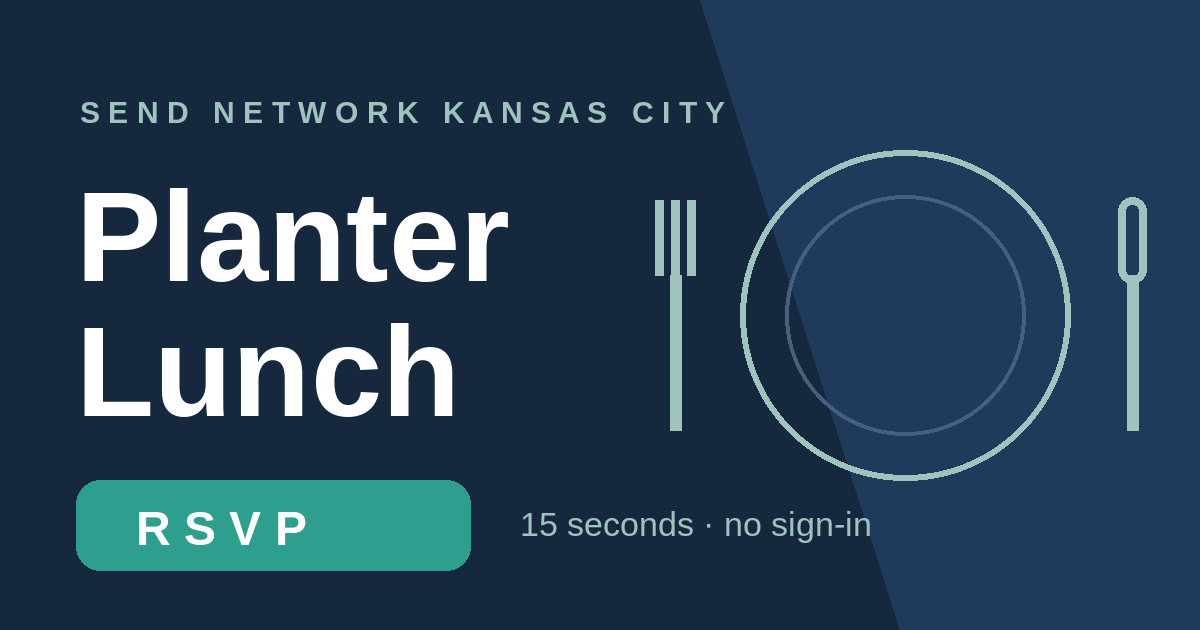
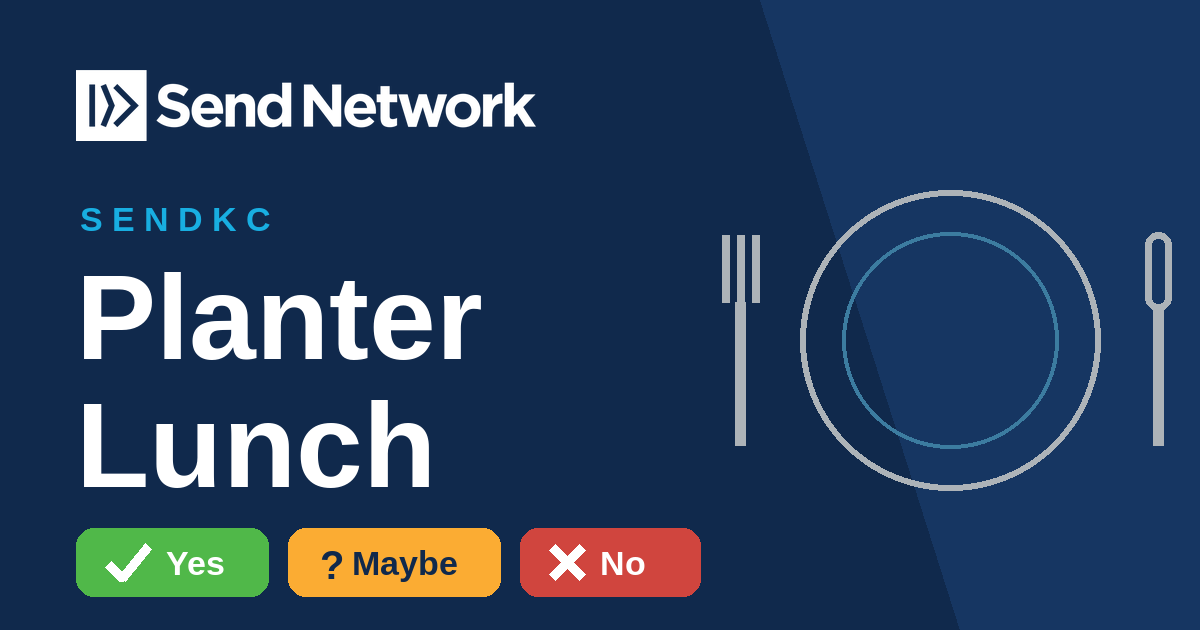
Rebrand lunch-rsvp with Send Network identity; Yes/Maybe/No buttons

Changed region(s): [[0.0617, 0.3016, 0.74, 0.9651], [0.5242, 0.2413, 0.9867, 0.7841], [0.0617, 0.0905, 0.6167, 0.2413]]

diff --git a/lunch-rsvp/index.html b/lunch-rsvp/index.html
@@ -3,11 +3,11 @@
 <head>
 <meta charset="UTF-8">
 <meta name="viewport" content="width=device-width, initial-scale=1.0">
-<title>Send Network KC — Planter Lunch RSVP</title>
-<meta name="description" content="RSVP for the Send Network KC Planter Lunch">
+<title>SendKC Planter Lunch — RSVP</title>
+<meta name="description" content="RSVP for the SendKC Planter Lunch">
 <link rel="icon" type="image/svg+xml" href="/ministrybagsatchel1.svg">
-<meta property="og:title" content="Planter Lunch RSVP — Send Network KC" />
-<meta property="og:description" content="Tap to RSVP for the Send Network KC Planter Lunch. Takes 15 seconds." />
+<meta property="og:title" content="SendKC Planter Lunch — RSVP" />
+<meta property="og:description" content="Tap to RSVP for the SendKC Planter Lunch." />
 <meta property="og:type" content="website" />
 <meta property="og:url" content="https://ministrybag.com/lunch-rsvp/" />
 <meta property="og:image" content="https://ministrybag.com/lunch-rsvp/og-image.png" />
@@ -17,102 +17,119 @@
 <meta name="twitter:image" content="https://ministrybag.com/lunch-rsvp/og-image.png" />
 <style>
   :root {
-    --navy: #16283e;
-    --navy-2: #1f3a5a;
-    --teal: #2e9e8f;
-    --teal-dark: #23816f;
-    --sand: #f4f1ea;
-    --ink: #24303d;
-    --muted: #6b7787;
-    --red: #c0564f;
+    /* Send Network brand palette (NAMB design guidelines) */
+    --navy: #10294C;      /* SN primary navy */
+    --blue: #18AEE1;      /* SN primary blue */
+    --green: #50B849;     /* SN green */
+    --green-soft: #99CC67;
+    --amber: #FBAC33;     /* SN amber */
+    --steel: #3C7CA0;     /* SN tertiary blue */
+    --gray-light: #EBECED;
+    --gray-mid: #ADB3B8;
+    --slate: #5C6670;
+    --red: #D0453E;       /* not in SN palette; used only for the No button */
+    --ink: #10294C;
     --radius: 14px;
   }
   * { box-sizing: border-box; margin: 0; padding: 0; }
   body {
     font-family: -apple-system, BlinkMacSystemFont, "Segoe UI", Roboto, Helvetica, Arial, sans-serif;
-    background: linear-gradient(160deg, var(--navy) 0%, var(--navy-2) 55%, #2a4a6b 100%);
+    background: linear-gradient(160deg, var(--navy) 0%, #163662 60%, #1d4478 100%);
     min-height: 100vh; display: flex; align-items: center; justify-content: center;
     padding: 20px; color: var(--ink);
   }
   .card {
-    background: #fff; width: 100%; max-width: 440px;
+    background: #fff; width: 100%; max-width: 460px;
     border-radius: var(--radius); overflow: hidden;
-    box-shadow: 0 18px 50px rgba(0,0,0,.35);
+    box-shadow: 0 18px 50px rgba(6, 18, 38, .45);
   }
-  .head { background: var(--navy); color: #fff; padding: 26px 26px 20px; }
-  .head .brand { font-size: 12px; letter-spacing: .14em; text-transform: uppercase; color: #9fc3bd; font-weight: 700; }
-  .head h1 { font-size: 26px; margin-top: 6px; line-height: 1.2; }
-  .details { background: var(--sand); padding: 16px 26px; font-size: 15px; line-height: 1.65; border-bottom: 1px solid #e5e0d4; }
+  .head { background: var(--navy); padding: 24px 26px 20px; }
+  .head img.logo { width: 200px; max-width: 60%; display: block; }
+  .head .kicker { margin-top: 16px; font-size: 12px; letter-spacing: .16em; text-transform: uppercase; color: var(--blue); font-weight: 800; }
+  .head h1 { font-size: 26px; margin-top: 4px; line-height: 1.2; color: #fff; }
+  .details { background: var(--gray-light); padding: 16px 26px; font-size: 15px; line-height: 1.65; border-bottom: 3px solid var(--blue); }
   .details b { color: var(--navy); }
-  .details a { color: var(--teal-dark); }
+  .details a { color: var(--steel); }
   .body { padding: 22px 26px 28px; }
-  .lead { font-size: 15px; color: var(--muted); margin-bottom: 16px; }
-  .choice { display: flex; gap: 10px; margin-bottom: 18px; }
+  .q { font-size: 16px; font-weight: 800; color: var(--navy); margin-bottom: 10px; }
+  .choice { display: flex; gap: 8px; margin-bottom: 18px; }
   .choice button {
-    flex: 1; padding: 14px 8px; font-size: 16px; font-weight: 700; cursor: pointer;
-    border-radius: var(--radius); border: 2px solid #d8dee6; background: #fff; color: var(--ink);
-    transition: all .15s;
+    flex: 1; padding: 14px 4px; cursor: pointer; border-radius: 12px;
+    border: 2px solid var(--gray-mid); background: #fff; transition: all .15s;
+    display: flex; flex-direction: column; align-items: center; gap: 2px;
   }
-  .choice button.yes.sel { background: var(--teal); border-color: var(--teal); color: #fff; }
-  .choice button.no.sel  { background: var(--red);  border-color: var(--red);  color: #fff; }
-  label { display: block; font-size: 13px; font-weight: 700; color: var(--navy); margin: 14px 0 5px; letter-spacing: .02em; }
+  .choice .mark { font-size: 24px; font-weight: 900; line-height: 1; }
+  .choice .word { font-size: 15px; font-weight: 800; }
+  .choice .yes   { color: var(--green); border-color: var(--green); }
+  .choice .maybe { color: #C77F0A; border-color: var(--amber); }
+  .choice .no    { color: var(--red); border-color: var(--red); }
+  .choice .yes.sel   { background: var(--green); color: #fff; }
+  .choice .maybe.sel { background: var(--amber); color: var(--navy); }
+  .choice .no.sel    { background: var(--red); color: #fff; }
+  label { display: block; font-size: 13px; font-weight: 800; color: var(--navy); margin: 14px 0 5px; letter-spacing: .03em; text-transform: uppercase; }
   input[type=text] {
-    width: 100%; padding: 12px 14px; font-size: 16px; border: 2px solid #d8dee6;
-    border-radius: 10px; outline: none; background: #fbfcfd;
+    width: 100%; padding: 12px 14px; font-size: 16px; border: 2px solid var(--gray-mid);
+    border-radius: 10px; outline: none; background: #fbfcfd; color: var(--ink);
   }
-  input:focus { border-color: var(--teal); background: #fff; }
-  .stepper { display: flex; align-items: center; gap: 14px; }
+  input:focus { border-color: var(--blue); background: #fff; }
+  #totalBox {
+    display: none; margin-top: 16px; padding: 14px 16px 16px;
+    background: #f3faf1; border: 2px solid var(--green); border-radius: 12px;
+  }
+  #totalBox .tb-label { font-size: 14px; font-weight: 800; color: var(--navy); text-transform: uppercase; letter-spacing: .03em; }
+  #totalBox .tb-sub { font-size: 13px; color: var(--slate); margin: 2px 0 10px; }
+  .stepper { display: flex; align-items: center; gap: 16px; }
   .stepper button {
-    width: 46px; height: 46px; font-size: 24px; font-weight: 700; cursor: pointer;
-    border-radius: 50%; border: 2px solid #d8dee6; background: #fff; color: var(--navy);
+    width: 50px; height: 50px; font-size: 26px; font-weight: 800; cursor: pointer;
+    border-radius: 50%; border: 2px solid var(--green); background: #fff; color: var(--green);
   }
-  .stepper button:active { background: var(--sand); }
-  .stepper .num { font-size: 26px; font-weight: 800; min-width: 40px; text-align: center; color: var(--navy); }
-  .stepper .hint { font-size: 13px; color: var(--muted); }
+  .stepper button:active { background: var(--gray-light); }
+  .stepper .num { font-size: 32px; font-weight: 900; min-width: 46px; text-align: center; color: var(--navy); }
   .submit {
     width: 100%; margin-top: 22px; padding: 16px; font-size: 17px; font-weight: 800;
-    background: var(--teal); color: #fff; border: none; border-radius: var(--radius); cursor: pointer;
+    background: var(--navy); color: #fff; border: none; border-radius: var(--radius); cursor: pointer;
     letter-spacing: .02em;
   }
-  .submit:hover { background: var(--teal-dark); }
-  .submit:disabled { background: #a9b6c4; cursor: default; }
-  .err { color: var(--red); font-size: 14px; margin-top: 10px; display: none; }
+  .submit:hover { background: #0b1f3a; }
+  .submit:disabled { background: var(--gray-mid); cursor: default; }
+  .err { color: var(--red); font-size: 14px; margin-top: 10px; display: none; font-weight: 600; }
   .done { text-align: center; padding: 46px 30px 50px; display: none; }
   .done .big { font-size: 52px; }
   .done h2 { color: var(--navy); font-size: 24px; margin: 12px 0 8px; }
-  .done p { color: var(--muted); font-size: 15px; line-height: 1.6; }
+  .done p { color: var(--slate); font-size: 15px; line-height: 1.6; }
   .done .cal {
     display: inline-block; margin-top: 18px; padding: 12px 22px; border-radius: 10px;
-    background: var(--sand); color: var(--navy); font-weight: 700; text-decoration: none; font-size: 15px;
-    border: 1px solid #e0dacb;
+    background: var(--gray-light); color: var(--navy); font-weight: 800; text-decoration: none; font-size: 15px;
+    border: 1px solid var(--gray-mid);
   }
-  .foot { text-align: center; font-size: 12.5px; color: var(--muted); padding: 0 26px 22px; }
-  #extra { display: none; }
+  .foot { text-align: center; font-size: 12.5px; color: var(--slate); padding: 0 26px 22px; }
 </style>
 </head>
 <body>
 <div class="card">
   <div class="head">
-    <div class="brand">Send Network Kansas City</div>
-    <h1 id="evTitle">Planter Lunch</h1>
+    <img class="logo" src="sn-logo-white.png" alt="Send Network">
+    <div class="kicker">SendKC</div>
+    <h1 id="evTitle">SendKC Planter Lunch</h1>
   </div>
   <div class="details" id="evDetails"></div>
 
   <div class="body" id="form">
-    <div class="lead">Two taps and you're done — no sign-in, no account.</div>
+    <div class="q">Are you coming?</div>
     <div class="choice">
-      <button type="button" class="yes" id="btnYes">🎉 I'm coming!</button>
-      <button type="button" class="no" id="btnNo">No, Can't make it</button>
+      <button type="button" class="yes" id="btnYes"><span class="mark">&#10003;</span><span class="word">Yes</span></button>
+      <button type="button" class="maybe" id="btnMaybe"><span class="mark">?</span><span class="word">Maybe</span></button>
+      <button type="button" class="no" id="btnNo"><span class="mark">&#10005;</span><span class="word">No</span></button>
     </div>
     <label for="name">Your name</label>
     <input type="text" id="name" autocomplete="name" placeholder="First and last name">
-    <div id="extra">
-      <label>How many coming total (including you)?</label>
+    <div id="totalBox">
+      <div class="tb-label">Total number coming</div>
+      <div class="tb-sub">Count everyone, including you. Spouses welcome!</div>
       <div class="stepper">
-        <button type="button" id="minus">−</button>
+        <button type="button" id="minus">&minus;</button>
         <div class="num" id="count">1</div>
         <button type="button" id="plus">+</button>
-        <div class="hint">spouses welcome!</div>
       </div>
     </div>
     <button class="submit" id="submit">Send my RSVP</button>
@@ -120,10 +137,10 @@
   </div>
 
   <div class="done" id="done">
-    <div class="big" id="doneEmoji">🙌</div>
+    <div class="big" id="doneEmoji">&#127881;</div>
     <h2 id="doneTitle">You're on the list!</h2>
     <p id="doneMsg"></p>
-    <a class="cal" id="calLink" target="_blank" rel="noopener">📅 Add to calendar</a>
+    <a class="cal" id="calLink" target="_blank" rel="noopener">&#128197; Add to calendar</a>
   </div>
 
   <div class="foot">Questions? Text Dave Partin at (913) 901-7581.</div>
@@ -136,7 +153,7 @@
    ============================================================ */
 const EVENT = {
   id: "planter-lunch-2026-07",
-  title: "Planter Lunch — July",
+  title: "SendKC Planter Lunch — July",
   dateText: "Thursday, July 23, 2026",
   timeText: "11:30 AM – 1:00 PM",
   place: "Neighborhood Church",
@@ -146,27 +163,27 @@ const EVENT = {
   gcalStart: "20260723T113000",
   gcalEnd: "20260723T130000",
 };
-/* Paste your Apps Script Web App URL here (see apps-script.gs setup notes): */
 const ENDPOINT = "https://script.google.com/macros/s/AKfycby1tzgv6ANAHWlNt6JCxsknP11hmu9vT9aijgXX3jjLrshhBZjXIVFQo5v97wWTeczE/exec";
 /* ============================================================ */
 
 const $ = id => document.getElementById(id);
 $("evTitle").textContent = EVENT.title;
 $("evDetails").innerHTML =
-  `<b>📅 ${EVENT.dateText}</b><br>🕦 ${EVENT.timeText}<br>📍 <b>${EVENT.place}</b><br>` +
+  `<b>&#128197; ${EVENT.dateText}</b><br>&#128340; ${EVENT.timeText}<br>&#128205; <b>${EVENT.place}</b><br>` +
   `<a href="https://maps.google.com/?q=${encodeURIComponent(EVENT.address)}" target="_blank" rel="noopener">${EVENT.address}</a><br>` +
   `Please RSVP by <b>${EVENT.rsvpBy}</b> so we can plan the food well.`;
 
-let coming = null, count = 1;
+let choice = null, count = 1;
+const buttons = { YES: $("btnYes"), MAYBE: $("btnMaybe"), NO: $("btnNo") };
 
-function pick(yes) {
-  coming = yes;
-  $("btnYes").classList.toggle("sel", yes);
-  $("btnNo").classList.toggle("sel", !yes);
-  $("extra").style.display = yes ? "block" : "none";
+function pick(val) {
+  choice = val;
+  for (const [k, btn] of Object.entries(buttons)) btn.classList.toggle("sel", k === val);
+  $("totalBox").style.display = (val === "YES") ? "block" : "none";
 }
-$("btnYes").addEventListener("click", () => pick(true));
-$("btnNo").addEventListener("click", () => pick(false));
+$("btnYes").addEventListener("click", () => pick("YES"));
+$("btnMaybe").addEventListener("click", () => pick("MAYBE"));
+$("btnNo").addEventListener("click", () => pick("NO"));
 $("plus").addEventListener("click", () => { count = Math.min(10, count + 1); $("count").textContent = count; });
 $("minus").addEventListener("click", () => { count = Math.max(1, count - 1); $("count").textContent = count; });
 
@@ -174,15 +191,15 @@ $("submit").addEventListener("click", async () => {
   const name = $("name").value.trim();
   const err = $("err");
   err.style.display = "none";
-  if (coming === null) { err.textContent = "Tap “I'm coming” or “No, Can't make it” first."; err.style.display = "block"; return; }
-  if (name.length < 2)  { err.textContent = "Please add your name so Dave knows it's you."; err.style.display = "block"; return; }
+  if (!choice) { err.textContent = "Please tap Yes, Maybe, or No first."; err.style.display = "block"; return; }
+  if (name.length < 2) { err.textContent = "Please add your name so Dave knows it's you."; err.style.display = "block"; return; }
   $("submit").disabled = true;
   $("submit").textContent = "Sending…";
   const payload = {
     event: EVENT.id,
     name: name,
-    coming: coming ? "YES" : "NO",
-    count: coming ? count : 0,
+    coming: choice,
+    count: choice === "YES" ? count : 0,
     phone: "",
     note: "",
   };
@@ -199,22 +216,31 @@ $("submit").addEventListener("click", async () => {
   }
 });
 
+function calUrl() {
+  return "https://calendar.google.com/calendar/render?action=TEMPLATE"
+    + "&text=" + encodeURIComponent(EVENT.title)
+    + "&dates=" + EVENT.gcalStart + "/" + EVENT.gcalEnd
+    + "&location=" + encodeURIComponent(EVENT.place + ", " + EVENT.address)
+    + "&details=" + encodeURIComponent("SendKC Planter Lunch. Questions? Dave Partin (913) 901-7581");
+}
+
 function showDone(name) {
   $("form").style.display = "none";
   const first = name.split(" ")[0];
-  if (coming) {
-    $("doneEmoji").textContent = "🙌";
+  if (choice === "YES") {
+    $("doneEmoji").innerHTML = "&#127881;";
     $("doneTitle").textContent = "You're on the list, " + first + "!";
     $("doneMsg").textContent = `${EVENT.dateText}, ${EVENT.timeText} at ${EVENT.place}. Lunch is on us — see you there.`;
-    const cal = "https://calendar.google.com/calendar/render?action=TEMPLATE"
-      + "&text=" + encodeURIComponent("Send Network KC " + EVENT.title)
-      + "&dates=" + EVENT.gcalStart + "/" + EVENT.gcalEnd
-      + "&location=" + encodeURIComponent(EVENT.place + ", " + EVENT.address)
-      + "&details=" + encodeURIComponent("Send Network KC Planter Lunch. Questions? Dave Partin (913) 901-7581");
-    $("calLink").href = cal;
+    $("calLink").href = calUrl();
+    $("calLink").style.display = "inline-block";
+  } else if (choice === "MAYBE") {
+    $("doneEmoji").innerHTML = "&#128591;";
+    $("doneTitle").textContent = "Thanks, " + first + " — we'd love to have you.";
+    $("doneMsg").textContent = "If your plans firm up, come back and tap Yes, or just come — there will be a seat for you.";
+    $("calLink").href = calUrl();
     $("calLink").style.display = "inline-block";
   } else {
-    $("doneEmoji").textContent = "🙏";
+    $("doneEmoji").innerHTML = "&#128591;";
     $("doneTitle").textContent = "Thanks for letting us know, " + first + ".";
     $("doneMsg").textContent = "You'll be missed! We'll see you at the next one.";
     $("calLink").style.display = "none";
